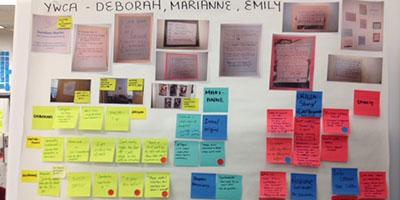
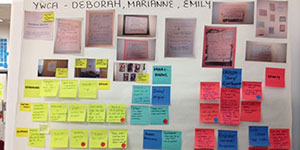
reduced thumb img file sizes

diff --git a/index.html b/index.html
@@ -32,7 +32,7 @@
 
 		<div class='thumb'>
 			<a href='https://github.com/lianilychee/project-caribou'>
-				<img class='thumb-img' src='images/caribou/thumb.png' width='300px' height='150px'>
+				<img class='thumb-img' src='images/caribou/thumb.jpg' width='300px' height='150px'>
 			</a>
 			<div class='title'>PROJECT CARIBOU: AUTONOMOUS NEATO</div>
 			<div class='blurb'>Using computer vision to line-follow, obey stop signs, and avoid collisions.</div>
@@ -71,7 +71,7 @@
 		</div>
 
 		<div class='thumb'>
-			<img class='thumb-img' src='images/engen/thumb.png' width='300px' height='150px'>
+			<img class='thumb-img' src='images/engen/thumb.jpg' width='300px' height='150px'>
 			<div class='title'>ENGEN: SCOOTER ACCESSORY FOR MOBILE CHARGING</div>
 			<div class='blurb'>I was an educator, electrical designer, and product engineer all rolled into one.</div>
 		</div>
